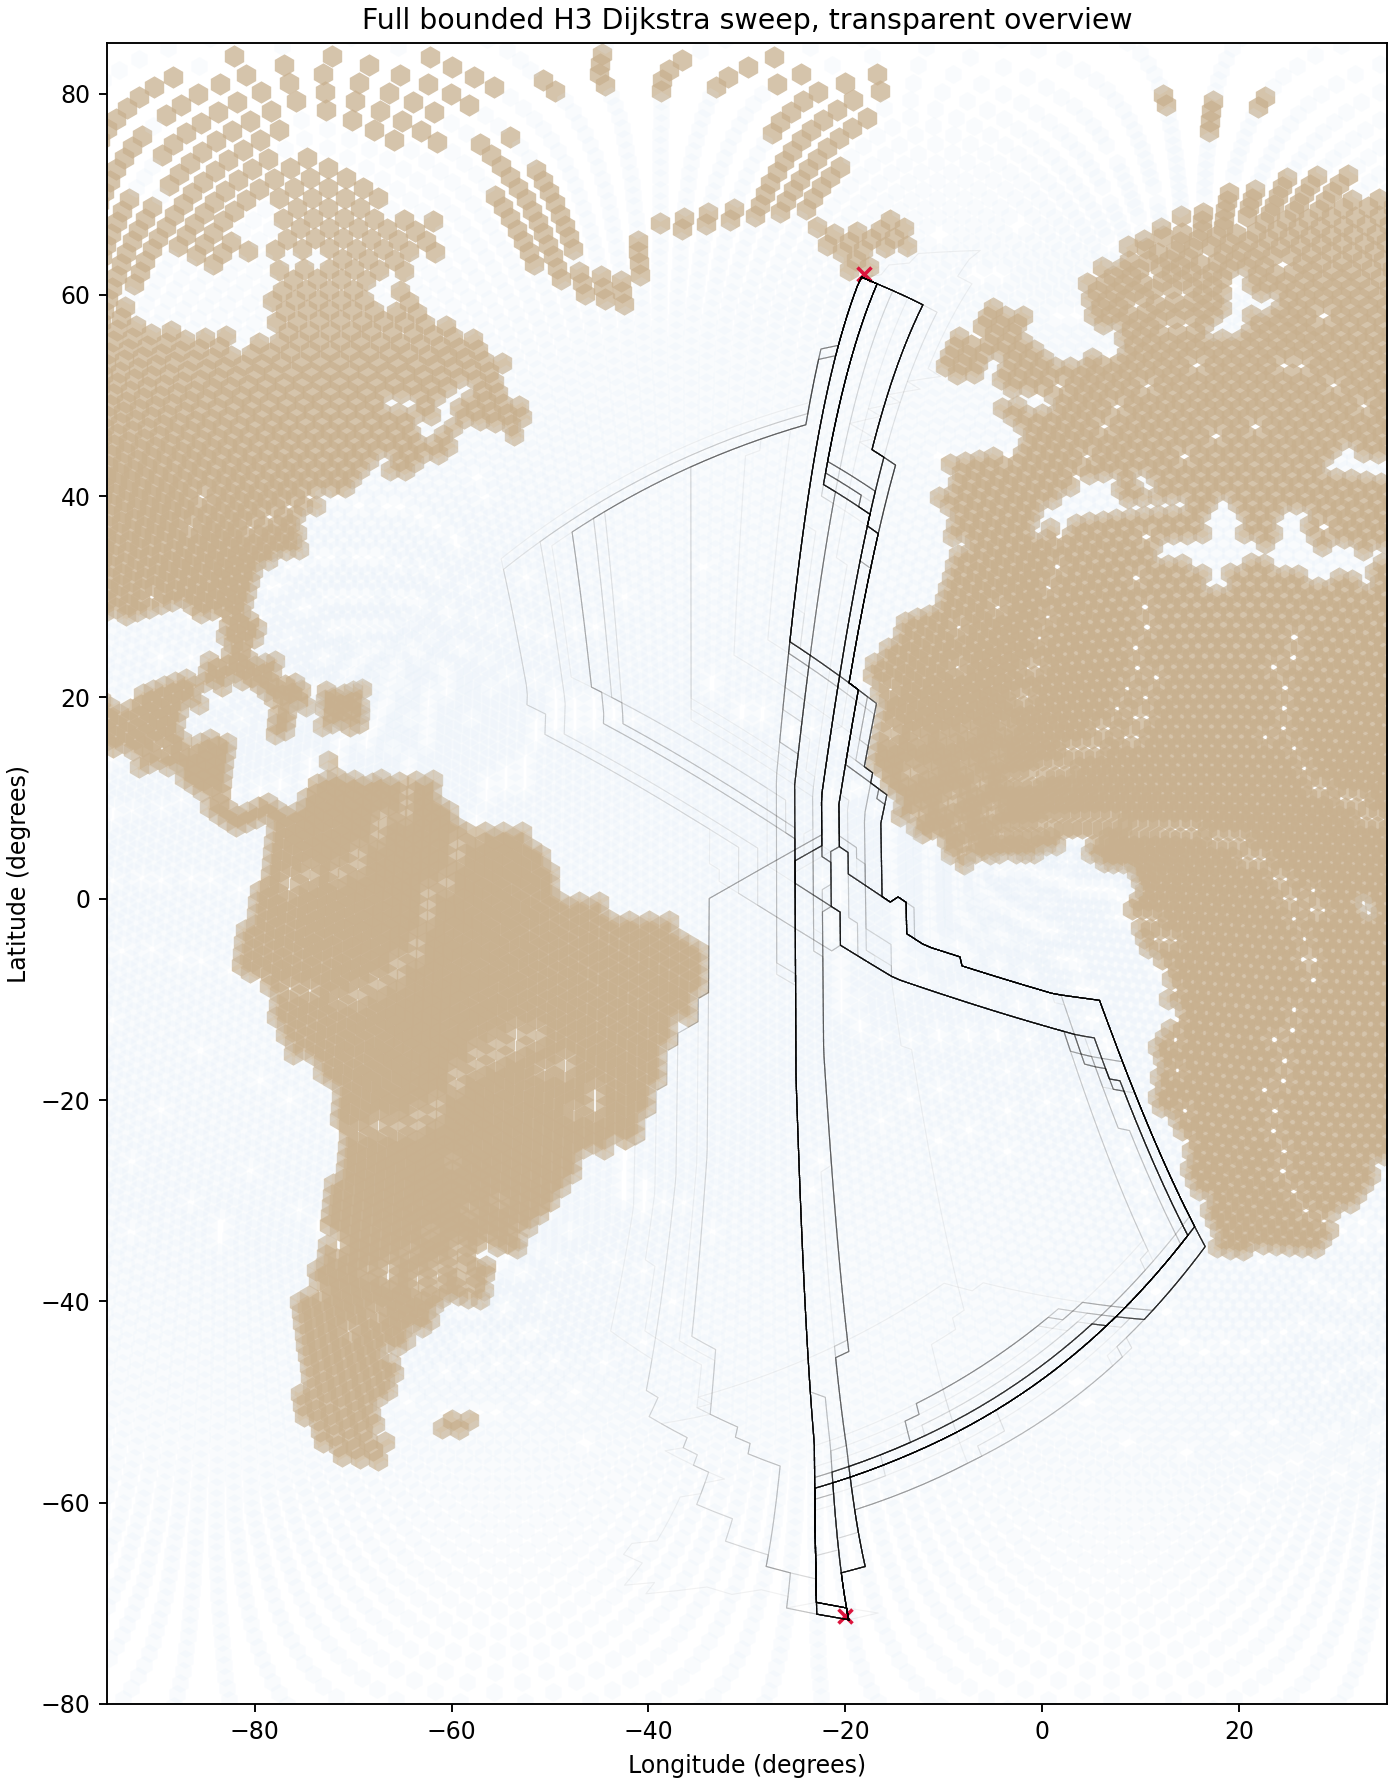
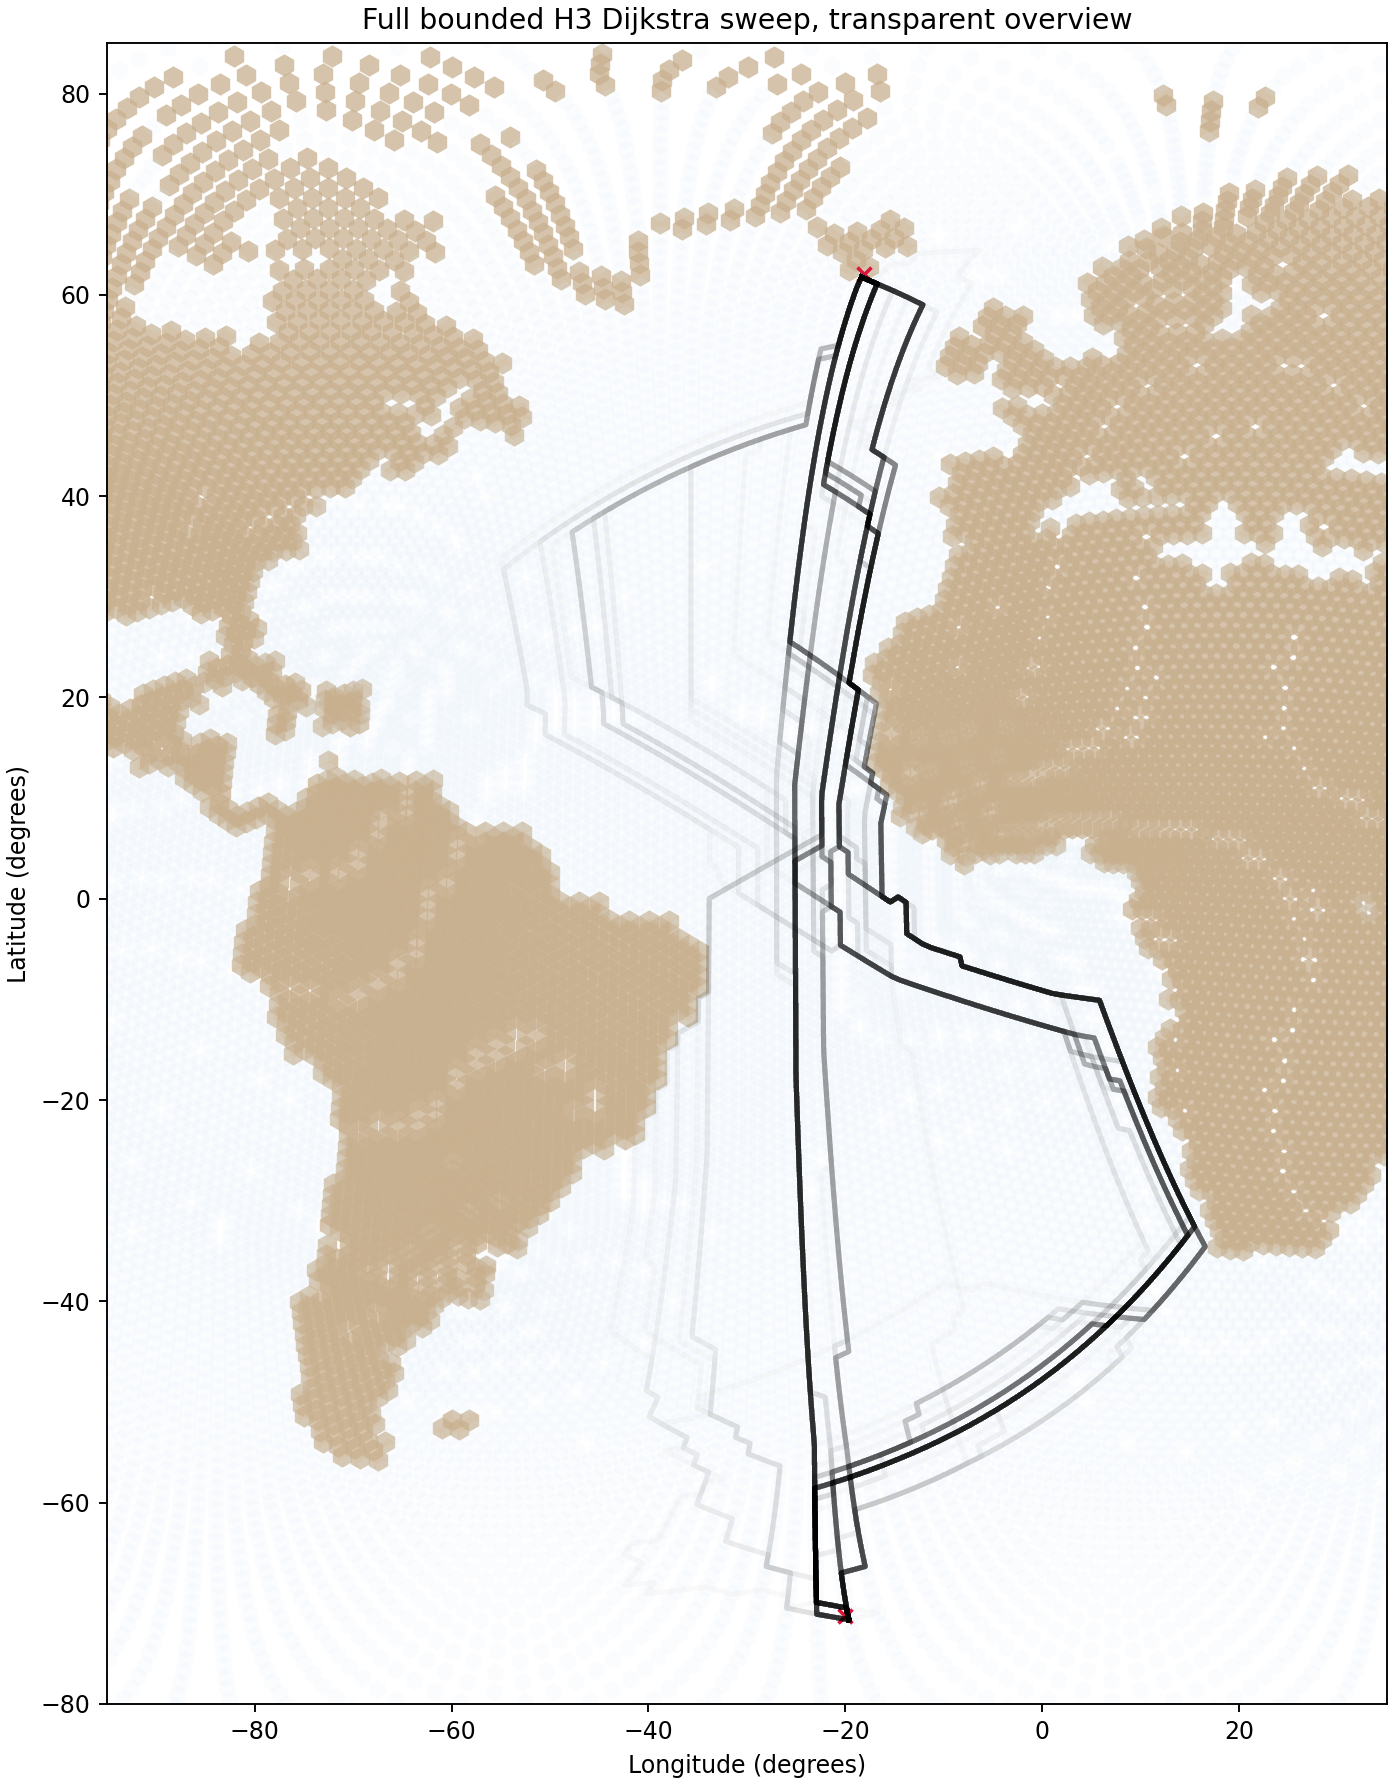
Improve full sweep density figures

diff --git a/src/scripts/15_run_full_bounded_h3_dijkstra.py b/src/scripts/15_run_full_bounded_h3_dijkstra.py
@@ -36,6 +36,7 @@ OUTPUT_WEIGHTS_PATH = PROJECT_ROOT / "results" / "tables" / "15_svalbard_full_bo
 OUTPUT_ENDPOINTS_PATH = PROJECT_ROOT / "results" / "tables" / "15_svalbard_full_bounded_dijkstra_endpoints.csv"
 FIGURE_PATH = PROJECT_ROOT / "results" / "figures" / "15_svalbard_full_bounded_dijkstra_routes.png"
 FIGURE_DENSITY_PATH = PROJECT_ROOT / "results" / "figures" / "15_svalbard_full_bounded_dijkstra_routes_transparent.png"
+FIGURE_HEATMAP_PATH = PROJECT_ROOT / "results" / "figures" / "15_svalbard_full_bounded_dijkstra_point_density_heatmap.png"
 REPORT_PATH = PROJECT_ROOT / "results" / "reports" / "15_run-full-bounded-h3-dijkstra.md"
 
 
@@ -210,11 +211,11 @@ def main() -> None:
     masked = env.loc[~env["has_wind_support"]].copy()
     supported = env.loc[env["has_wind_support"]].copy()
     ax.scatter(masked["lon"], masked["lat"], s=90, marker="h", color="#c8b08f", alpha=0.75, linewidths=0)
-    ax.scatter(supported["lon"], supported["lat"], s=65, marker="h", color="#dceaf7", alpha=0.25, linewidths=0)
+    ax.scatter(supported["lon"], supported["lat"], s=65, marker="h", color="#dceaf7", alpha=0.20, linewidths=0)
     for behavior, route in path_df.groupby("behavior"):
         lons = [route.iloc[0]["source_lon"]] + route["target_lon"].tolist()
         lats = [route.iloc[0]["source_lat"]] + route["target_lat"].tolist()
-        ax.plot(lons, lats, color="#355f8d", linewidth=0.6, alpha=0.18)
+        ax.plot(lons, lats, color="#355f8d", linewidth=1.6, alpha=0.10)
     ax.scatter([start_record["lon"], end_record["lon"]], [start_record["lat"], end_record["lat"]], color="black", s=35, marker="x")
     ax.set_title("Full bounded H3 Dijkstra sweep, Svalbard spring")
     ax.set_xlabel("Longitude (degrees)")
@@ -226,11 +227,11 @@ def main() -> None:
 
     fig, ax = plt.subplots(figsize=(8.2, 10.5), constrained_layout=True)
     ax.scatter(masked["lon"], masked["lat"], s=90, marker="h", color="#c8b08f", alpha=0.75, linewidths=0)
-    ax.scatter(supported["lon"], supported["lat"], s=65, marker="h", color="#dceaf7", alpha=0.15, linewidths=0)
+    ax.scatter(supported["lon"], supported["lat"], s=65, marker="h", color="#dceaf7", alpha=0.12, linewidths=0)
     for behavior, route in path_df.groupby("behavior"):
         lons = [route.iloc[0]["source_lon"]] + route["target_lon"].tolist()
         lats = [route.iloc[0]["source_lat"]] + route["target_lat"].tolist()
-        ax.plot(lons, lats, color="black", linewidth=0.5, alpha=0.05)
+        ax.plot(lons, lats, color="black", linewidth=2.2, alpha=0.025)
     ax.scatter([start_record["lon"], end_record["lon"]], [start_record["lat"], end_record["lat"]], color="crimson", s=35, marker="x")
     ax.set_title("Full bounded H3 Dijkstra sweep, transparent overview")
     ax.set_xlabel("Longitude (degrees)")
@@ -238,6 +239,27 @@ def main() -> None:
     ax.set_xlim(-95, 35)
     ax.set_ylim(-80, 85)
     fig.savefig(FIGURE_DENSITY_PATH, dpi=170)
+    plt.close(fig)
+
+    point_df = path_df[["source_lon", "source_lat"]].rename(columns={"source_lon": "lon", "source_lat": "lat"}).copy()
+    end_points = path_df.groupby("behavior").tail(1)[["target_lon", "target_lat"]].rename(columns={"target_lon": "lon", "target_lat": "lat"})
+    point_df = pd.concat([point_df, end_points], ignore_index=True)
+    lon_bins = np.arange(-95, 36, 2.0)
+    lat_bins = np.arange(-80, 86, 2.0)
+    heatmap, xedges, yedges = np.histogram2d(point_df["lon"], point_df["lat"], bins=[lon_bins, lat_bins])
+    heatmap = heatmap.T
+
+    fig, ax = plt.subplots(figsize=(8.2, 10.5), constrained_layout=True)
+    ax.scatter(masked["lon"], masked["lat"], s=90, marker="h", color="#c8b08f", alpha=0.5, linewidths=0)
+    mesh = ax.pcolormesh(xedges, yedges, heatmap, cmap="magma", shading="auto")
+    cbar = fig.colorbar(mesh, ax=ax)
+    cbar.set_label("Route-point density per 2° bin")
+    ax.set_title("Full bounded H3 Dijkstra sweep, Atlantic point-density heatmap")
+    ax.set_xlabel("Longitude (degrees)")
+    ax.set_ylabel("Latitude (degrees)")
+    ax.set_xlim(-95, 35)
+    ax.set_ylim(-80, 85)
+    fig.savefig(FIGURE_HEATMAP_PATH, dpi=170)
     plt.close(fig)
 
     report = f'''# Run full bounded H3 Dijkstra sweep
@@ -272,12 +294,15 @@ See:
 - failed-behavior table when relevant: `results/tables/15_svalbard_full_bounded_dijkstra_failures.csv`
 - route overview figure: `results/figures/15_svalbard_full_bounded_dijkstra_routes.png`
 - transparent route overview figure: `results/figures/15_svalbard_full_bounded_dijkstra_routes_transparent.png`
+- route-point density heatmap: `results/figures/15_svalbard_full_bounded_dijkstra_point_density_heatmap.png`
 
 ## Quick-look figures
 
 ![Full bounded H3 Dijkstra sweep](../figures/15_svalbard_full_bounded_dijkstra_routes.png)
 
 ![Full bounded H3 Dijkstra sweep, transparent overview](../figures/15_svalbard_full_bounded_dijkstra_routes_transparent.png)
+
+![Full bounded H3 Dijkstra sweep, Atlantic point-density heatmap](../figures/15_svalbard_full_bounded_dijkstra_point_density_heatmap.png)
 
 ## Run summary
 - number of tested behaviors: **{len(weights_df)}**
@@ -293,6 +318,7 @@ The key things to inspect visually are:
 - whether the route family collapses into a few dominant corridors or fills a broad envelope
 - whether some combinations appear to produce visibly implausible detours or extreme spread
 - whether the route cloud suggests that the current graph and endpoint setup are capable of spanning the benchmark flyway geometry at all
+- whether the semi-transparent wide-line plots and the point-density heatmap reveal concentrated corridor use or a much more diffuse route field across the Atlantic domain
 
 ## Next step
 Use this full bounded route set as the candidate pool for the first explicit route-to-benchmark comparison against the Svalbard spring 10-degree mean flyway.

diff --git a/results/reports/15_run-full-bounded-h3-dijkstra.md b/results/reports/15_run-full-bounded-h3-dijkstra.md
@@ -30,12 +30,15 @@ See:
 - failed-behavior table when relevant: `results/tables/15_svalbard_full_bounded_dijkstra_failures.csv`
 - route overview figure: `results/figures/15_svalbard_full_bounded_dijkstra_routes.png`
 - transparent route overview figure: `results/figures/15_svalbard_full_bounded_dijkstra_routes_transparent.png`
+- route-point density heatmap: `results/figures/15_svalbard_full_bounded_dijkstra_point_density_heatmap.png`
 
 ## Quick-look figures
 
 ![Full bounded H3 Dijkstra sweep](../figures/15_svalbard_full_bounded_dijkstra_routes.png)
 
 ![Full bounded H3 Dijkstra sweep, transparent overview](../figures/15_svalbard_full_bounded_dijkstra_routes_transparent.png)
+
+![Full bounded H3 Dijkstra sweep, Atlantic point-density heatmap](../figures/15_svalbard_full_bounded_dijkstra_point_density_heatmap.png)
 
 ## Run summary
 - number of tested behaviors: **216**
@@ -51,6 +54,7 @@ The key things to inspect visually are:
 - whether the route family collapses into a few dominant corridors or fills a broad envelope
 - whether some combinations appear to produce visibly implausible detours or extreme spread
 - whether the route cloud suggests that the current graph and endpoint setup are capable of spanning the benchmark flyway geometry at all
+- whether the semi-transparent wide-line plots and the point-density heatmap reveal concentrated corridor use or a much more diffuse route field across the Atlantic domain
 
 ## Next step
 Use this full bounded route set as the candidate pool for the first explicit route-to-benchmark comparison against the Svalbard spring 10-degree mean flyway.
